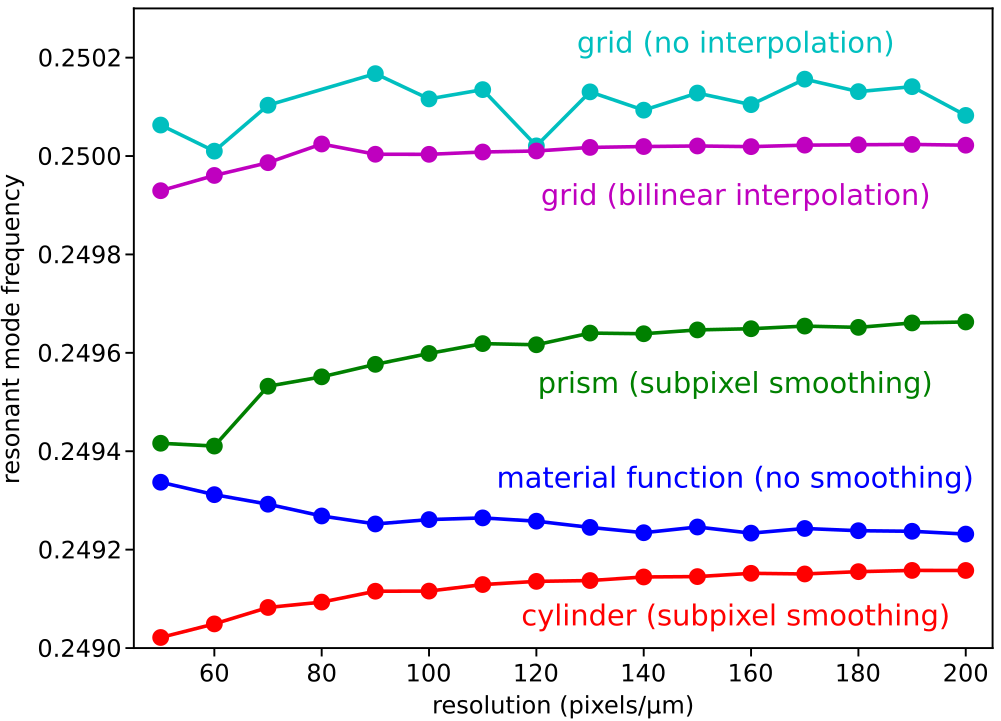
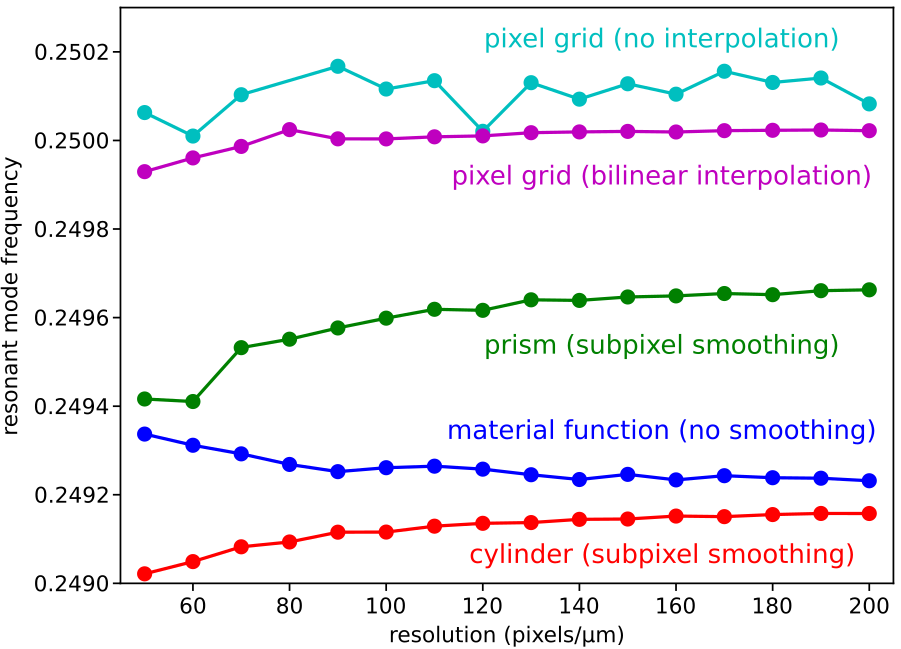
overwrite src frequency with eigenmode frequency

diff --git a/src/mpb.cpp b/src/mpb.cpp
@@ -696,7 +696,7 @@ void fields::add_eigenmode_source(component c0, const src_time &src, direction d
   global_eigenmode_data->amp_func = A ? A : default_amp_func;
 
   src_time *src_mpb = src.clone();
-  if (!match_frequency) src_mpb->set_frequency(frequency);
+  if (!match_frequency) src_mpb->set_frequency(global_eigenmode_data->frequency);
 
   /*--------------------------------------------------------------*/
   // step 2: add sources whose radiated field reproduces the      */

diff --git a/doc/docs/Subpixel_Smoothing.md b/doc/docs/Subpixel_Smoothing.md
@@ -133,24 +133,24 @@ The adaptive numerical integration used for subpixel smoothing of material funct
 What Happens When Subpixel Smoothing is Disabled?
 -------------------------------------------------
 
-When subpixel smoothing is disabled by either (1) setting `eps_averaging=False` in the [`Simulation`](Python_User_Interface.md#the-simulation-class) constructor or (2) using a [material_function](Subpixel_Smoothing.md#enabling-averaging-for-material-function) (as is typical in the [adjoint solver](Python_Tutorials/AdjointSolver.md)), each electric field component ($E_x$, $E_y$, $E_z$) in a given voxel is individually assigned a scalar permittivity (for isotropic materials) based on whatever the value of the permittivity is at that position in the [Yee grid](Yee_Lattice.md). This results in [staircasing artifacts](Subpixel_Smoothing.md) due to the discontinuous material interfaces as well as the staggered nature of the Yee grid points. Any change in the resolution which shifts the location of the Yee grid points relative to the material interfaces will result in unpredictable changes to any computed quantities. The coordinates the Yee grid points can be obtained using a [field function](Field_Functions.md#coordinates-of-the-yee-grid) which can be useful for debugging.
+When subpixel smoothing is disabled by either (1) setting `eps_averaging=False` in the [`Simulation`](Python_User_Interface.md#the-simulation-class) constructor or (2) using a [material function](Subpixel_Smoothing.md#enabling-averaging-for-material-function) (as is typical in the [adjoint solver](Python_Tutorials/AdjointSolver.md)), each electric field component ($E_x$, $E_y$, $E_z$) in a given voxel is individually assigned a scalar permittivity (for isotropic materials) based on whatever the value of the permittivity is at that position in the [Yee grid](Yee_Lattice.md). This results in [staircasing artifacts](Subpixel_Smoothing.md) due to the discontinuous material interfaces as well as the staggered nature of the Yee grid points. Any change in the resolution which shifts the location of the Yee grid points relative to the material interfaces will result in unpredictable changes to any computed quantities. The coordinates the Yee grid points can be obtained using a [field function](Field_Functions.md#coordinates-of-the-yee-grid) which can be useful for debugging.
 
 Subpixel Smoothing vs. Bilinear Interpolation
 ---------------------------------------------
 
 In certain cases, using subpixel smoothing may be impractical given the poor runtime performance of the adaptive numerical integration method as discussed previously. A partial workaround, to ensure that Meep responds continuously to changes in the simulation parameters (even if absolute accuracy is not improved) is to *interpolate* any discontinuous structure onto the Yee grid. Otherwise, tiny changes in Meep's [Yee grid](Yee_Lattice.md) due to e.g. small changes in the resolution could cause discontinuous jumps in ε.
 
-As a demonstration of this effect, consider a ring resonator (same structure as [above](#continuously-varying-shapes-and-results)) in which the ring geometry can be represented using five different methods:
+As a demonstration of this effect, consider a ring resonator (inner radius: 2 μm, width: 1 μm; same structure as [above](#continuously-varying-shapes-and-results)) in which the ring geometry can be represented using five different methods:
 
-1. Two overlapping [`Cylinder`](Python_User_Interface.md#cylinder) objects (subpixel smoothing).
-2. Two overlapping [`Prism`](Python_User_Interface.md#prism) objects (subpixel smoothing). Could also be imported as a [GDSII file](Python_User_Interface.md#gdsii-support).
+1. two overlapping [`Cylinder`](Python_User_Interface.md#cylinder) objects (subpixel smoothing).
+2. two overlapping [`Prism`](Python_User_Interface.md#prism) objects (subpixel smoothing). Could also be imported as a [GDSII file](Python_User_Interface.md#gdsii-support).
 3. [material function](Python_User_Interface.md#material-function) (no smoothing).
-4. Grid via [`epsilon_input_file`](Python_User_Interface.md#the-simulation-class) (no smoothing; bilinear interpolation onto Yee grid).
-5. Grid via `epsilon_input_file` (no smoothing; no interpolation).
+4. pixel grid via [`epsilon_input_file`](Python_User_Interface.md#the-simulation-class) (no smoothing; bilinear interpolation onto Yee grid).
+5. pixel grid via `epsilon_input_file` (no smoothing; no interpolation).
 
 Of these five methods, (3) and (5) produce discontinuous structures.
 
-The grid imported from `epsilon_input_file` via an HDF5 file in (4) and (5) is generated by the function `output_epsilon` when using the material function from (3) at a resolution of 80.
+The pixel grid imported from the HDF5 `epsilon_input_file` in (4) and (5) is generated by the function `output_epsilon` when using the material function from (3) at a resolution of 80.
 
 The prism ring geometry in (2) is generated using:
 
@@ -172,10 +172,10 @@ The following convergence plot shows the frequency for the resonant mode with $H
 ![](images/ring_freq_vs_resolution.png)
 </center>
 
-There are three important items to note. (1) The grid and prism representations are each converging to a different frequency than the material function and cylinder. This is because in the limit of infinite resolution, they are *different* structures than the cylinders. (2) The material function is the same structure as the cylinder with no smoothing. In the limit of infinite resolution, the material function and cylinder converge to the same frequency. The only difference is the *rate* of convergence: the cylinder is second order (due to subpixel smoothing) whereas the material function is first order. See the convergence plot in the third figure from the top. (3) The non-interpolated grid shows irregular convergence compared with the interpolated grid. This is expected because the non-interpolated grid is discontinuous but the interpolated grid is not. Also, because these are different structures the two grids converge to different frequencies. To see this trend clearly requires reducing the "jumpiness" of the non-interpolated grid: the Meep resolution needs to be increased beyond 200 which is already ~3X the grid resolution.
+There are three important items to note. (1) The pixel grid and prism representations are each converging to a different frequency than the material function and cylinder. This is because in the limit of infinite resolution, they are *different* structures than the cylinders. (2) The material function is the same structure as the cylinder with no smoothing. In the limit of infinite resolution, the material function and cylinder converge to the same frequency. The only difference is the *rate* of convergence: the cylinder is second order (due to subpixel smoothing) whereas the material function is first order. See the convergence plot above (third figure from the top). (3) The non-interpolated pixel grid shows irregular convergence compared with the interpolated grid. This is expected because the non-interpolated grid is discontinuous but the interpolated grid is not. Also, because these are different structures the two pixel grids converge to different frequencies. To see this trend clearly requires reducing the "jumpiness" of the non-interpolated grid: the Meep resolution needs to be increased beyond 200 which is already ~3X the grid resolution.
 
-Since the interpolated grid has already been smoothed to a *continuous* $\varepsilon(x,y)$ function, subpixel smoothing (which is not supported for `epsilon_input_file`) is not really necessary once the Yee grid resolution exceeds the input image resolution. This can be seen in the above plot: for Meep Yee grid resolutions of 80 (equal to the grid resolution of the HDF5 file) and above, the changes in the results are much smaller than those at lower resolutions. Also, higher-order interpolation schemes are not necessary because the Yee discretization is already essentially equivalent to linear interpolation.
+Since the interpolated pixel grid has already been smoothed to a continuous $\varepsilon(x,y)$ function, subpixel smoothing (which is not supported for `epsilon_input_file`) is not really necessary once the Yee grid resolution exceeds the input image resolution. This can be seen in the above plot: for Meep Yee grid resolutions of 80 (equal to the pixel grid resolution of the HDF5 file) and above, the changes in the results are much smaller than those at lower resolutions. Also, higher-order interpolation schemes are not necessary because the Yee discretization is already essentially equivalent to linear interpolation.
 
-As a practical matter, increasing the Meep resolution beyond the resolution of a non-interpolated grid is not physically meaningful because this is trying to resolve the individual pixels of an imported image. In the case of a grid imported via `epsilon_input_file`, this is not an issue because the bilinear interpolation is performed automatically by default. However, no built-in interpolation is provided for a material function; it must be provided by the user (i.e., convolving the discontinuous material function with a smoothing kernel).    As a corollary, when designing structures using a pixel grid (as in the [adjoint solver](Python_Tutorials/AdjointSolver.md)), the pixel density of the degrees of freedom should typically be at least as big as the Meep resolution if not greater.
+As a practical matter, increasing the Meep resolution beyond the resolution of a non-interpolated pixel grid is not physically meaningful because this is trying to resolve the individual pixels of an imported image. In the case of a pixel grid imported via `epsilon_input_file`, this is not an issue because the bilinear interpolation is performed automatically by default. However, no built-in interpolation is provided for a material function; it must be provided by the user (i.e., convolving the discontinuous material function with a smoothing kernel).    As a corollary, when designing structures using a pixel grid (as in the [adjoint solver](Python_Tutorials/AdjointSolver.md)), the pixel density of the degrees of freedom should typically be at least as big as the Meep resolution if not greater.
 
 In general, by making a discontinuous structure continuous, via subpixel smoothing or some other form of interpolation, the convergence becomes more regular (the results change more continuously to changes in resolution or other parameters), although it does not necessarily become more accurate compared to the desired infinite-resolution structure unless the full anisotropic smoothing is performed.   If the initial structure is already continuous, no additional preprocessing is necessary. 

diff --git a/doc/docs/Python_User_Interface.md b/doc/docs/Python_User_Interface.md
@@ -813,7 +813,7 @@ The index *n* (1,2,3,...) of the desired band ω<sub>*n*</sub>(**k**) to compute
 
 **`direction` [`mp.X`, `mp.Y`, or `mp.Z;` default `mp.AUTOMATIC`], `eig_match_freq` [`boolean;` default `True`], `eig_kpoint` [`Vector3`]**
 —
-By default (if `eig_match_freq` is `True`), Meep tries to find a mode with the same frequency ω<sub>*n*</sub>(**k**) as the `src` property (above), by scanning **k** vectors in the given `direction` using MPB's `find_k` functionality. Alternatively, if `eig_kpoint` is supplied, it is used as an initial guess for **k**. By default, `direction` is the direction normal to the source region, assuming `size` is $d$–1 dimensional in a $d$-dimensional simulation (e.g. a plane in 3d). If `direction` is set to `mp.NO_DIRECTION`, then `eig_kpoint` is not only the initial guess and the search direction of the **k** vectors, but is also taken to be the direction of the waveguide, allowing you to [launch modes in oblique ridge waveguides](Python_Tutorials/Eigenmode_Source.md#index-guided-modes-in-a-ridge-waveguide) (not perpendicular to the source plane).  If `eig_match_freq` is `False`, then the specific **k** vector of the desired mode is specified with  `eig_kpoint` (in Meep units of 2π/(unit length)). By default, the **k** components in the plane of the source region are zero.  However, if the source region spans the *entire* cell in some directions, and the cell has Bloch-periodic boundary conditions via the `k_point` parameter, then the mode's **k** components in those directions will match `k_point` so that the mode satisfies the Meep boundary conditions, regardless of `eig_kpoint`. Note that once **k** is either found by MPB, or specified by `eig_kpoint`, the field profile used to create the current sources corresponds to the [Bloch mode](https://en.wikipedia.org/wiki/Bloch_wave), $\mathbf{u}_{n,\mathbf{k}}(\mathbf{r})$, multiplied by the appropriate exponential factor, $e^{i \mathbf{k} \cdot \mathbf{r}}$.
+By default (if `eig_match_freq` is `True`), Meep tries to find a mode with the same frequency ω<sub>*n*</sub>(**k**) as the `src` property (above), by scanning **k** vectors in the given `direction` using MPB's `find_k` functionality. Alternatively, if `eig_kpoint` is supplied, it is used as an initial guess for **k**. By default, `direction` is the direction normal to the source region, assuming `size` is $d$–1 dimensional in a $d$-dimensional simulation (e.g. a plane in 3d). If `direction` is set to `mp.NO_DIRECTION`, then `eig_kpoint` is not only the initial guess and the search direction of the **k** vectors, but is also taken to be the direction of the waveguide, allowing you to [launch modes in oblique ridge waveguides](Python_Tutorials/Eigenmode_Source.md#oblique-waveguides) (not perpendicular to the source plane).  If `eig_match_freq` is `False`, then the **k** vector of the desired mode is specified with  `eig_kpoint` (in Meep units of 2π/(unit length)). Also, the eigenmode frequency computed by MPB overwrites the `frequency` parameter of the `src` property for a `GaussianSource` and `ContinuousSource` but not `CustomSource` (the `width` or any other parameter of `src` is unchanged). By default, the **k** components in the plane of the source region are zero.  However, if the source region spans the *entire* cell in some directions, and the cell has Bloch-periodic boundary conditions via the `k_point` parameter, then the mode's **k** components in those directions will match `k_point` so that the mode satisfies the Meep boundary conditions, regardless of `eig_kpoint`. Note that once **k** is either found by MPB, or specified by `eig_kpoint`, the field profile used to create the current sources corresponds to the [Bloch mode](https://en.wikipedia.org/wiki/Bloch_wave), $\mathbf{u}_{n,\mathbf{k}}(\mathbf{r})$, multiplied by the appropriate exponential factor, $e^{i \mathbf{k} \cdot \mathbf{r}}$.
 
 **`eig_parity` [`mp.NO_PARITY` (default), `mp.EVEN_Z`, `mp.ODD_Z`, `mp.EVEN_Y`, `mp.ODD_Y`]**
 —
@@ -1253,6 +1253,8 @@ The parameters of this routine are the same as that of `get_eigenmode_coefficien
 + `k`: the Bloch wavevector of the mode in `direction`
 + `kdom`: the dominant planewave of mode `band_num`
 + `amplitude(point, component)`: the (complex) value of the given E or H field `component` (`Ex`, `Hy`, etcetera) at a particular `point` (a `Vector3`) in space (interpreted with Bloch-periodic boundary conditions if you give a point outside the original `eig_vol`).
+
+If `match_frequency=False` or `kpoint` is not zero in the given `direction`, the `frequency` input parameter is ignored.
 
 **`get_eigenmode_freqs(flux)`**
 —

diff --git a/doc/docs/Python_Tutorials/Optical_Forces.md b/doc/docs/Python_Tutorials/Optical_Forces.md
@@ -10,7 +10,7 @@ This tutorial demonstrates Meep's ability to compute classical forces via the [M
 
 The gradient force $F$ on each waveguide arising from the evanescent coupling of the two waveguide modes can be computed analytically:
 
-$$F=-\frac{1}{\omega}\frac{d\omega}{ds}\Bigg\vert_\vec{k}U,$$
+$$F=-\frac{1}{\omega}\frac{d\omega}{ds}\Bigg\vert_\vec{k}U$$
 
 where $\omega$ is the mode frequency of the coupled waveguide system, $s$ is the separation distance between the parallel waveguides, $k$ is the conserved wave vector, and $U$ is the total energy of the electromagnetic fields. By convention, negative and positive values correspond to attractive and repulsive forces, respectively. For more details, see [Optics Letters, Vol. 30, pp. 3042-4, 2005](https://www.osapublishing.org/ol/abstract.cfm?uri=ol-30-22-3042). This expression has been shown to be mathematically equivalent to the Maxwell stress tensor in [Optics Express, Vol. 17, pp. 18116-35, 2009](http://www.opticsinfobase.org/oe/abstract.cfm?URI=oe-17-20-18116). We will verify this result in this tutorial. In this particular example, only the fundamental mode with odd mirror-symmetry in $y$ shows the bidirectional force.
 
@@ -20,7 +20,7 @@ The gradient force $F$ can be computed using two different methods: (1) using MP
 
 The simulation script is in [examples/parallel-wvgs-force.py](https://github.com/NanoComp/meep/blob/master/python/examples/parallel-wvgs-force.py). The notebook is [examples/parallel-wvgs-force.ipynb](https://nbviewer.jupyter.org/github/NanoComp/meep/blob/master/python/examples/parallel-wvgs-force.ipynb).
 
-The main component of the Meep script is the function `parallel_waveguide` which computes the force $F$ and transmitted power $P$ given the waveguide separation distance `s` and relative phase of the waveguide modes `xodd=True/False`. The eigenmode frequency $\omega$ is computed first using `get_eigenmode` in order to specify the frequency of the `add_force` and `add_flux` monitors. An [`EigenModeSource`](../Python_User_Interface.md#eigenmodesource) with `eig_match_freq=False` is then used to launch the guided mode. Alternatively, a constant-amplitude point/area source can be used to launch the mode but this is less efficient as demonstrated in [Tutorial/Eigenmode Source/Index-Guided Modes in a Ridge Waveguide](Eigenmode_Source.md#index-guided-modes-in-a-ridge-waveguide). The waveguide has width/height of $a=1$ μm and a fixed propagation wavevector of $\pi/a$.
+The main component of the Meep script is the function `parallel_waveguide` which computes the force $F$ and transmitted power $P$ given the waveguide separation distance `s` and relative phase of the waveguide modes `xodd=True/False`. The eigenmode frequency $\omega$ is computed first using `get_eigenmode` in order to specify the frequency of the `add_force` and `add_flux` monitors. (Note that when `match_frequency=False`, `get_eigenmode` ignores the input `frequency` parameter.) An [`EigenModeSource`](../Python_User_Interface.md#eigenmodesource) with `eig_match_freq=False` is then used to launch the guided mode using a pulse (the `frequency` but not the `fwidth` parameter of `GaussianSource` is ignored). Alternatively, a constant-amplitude point/area source can be used to launch the mode but this is less efficient as demonstrated in [Tutorial/Eigenmode Source/Index-Guided Modes in a Ridge Waveguide](Eigenmode_Source.md#index-guided-modes-in-a-ridge-waveguide). The waveguide has width/height of $a=1$ μm and a fixed propagation wavevector of $\pi/a$.
 
 ```py
 import meep as mp
@@ -128,7 +128,7 @@ plt.legend(loc='upper right')
 plt.show()
 ```
 
-The following figure shows the $E_y$ mode profile at a waveguide separation distance of 0.1 μm. This figure was generated using the [`plot2D`](../Python_User_Interface.md#data-visualization) routine and shows the source/flux region (red hatches), force monitors (blue lines), and PMLs (green hatches) surrounding the cell. From the force spectra shown above, at this separation distance the anti-symmetric mode is repulsive whereas the symmetric mode is attractive.
+The following figure shows the $E_y$ mode profiles at a waveguide separation distance of 0.1 μm. This figure was generated using the [`plot2D`](../Python_User_Interface.md#data-visualization) routine and shows the source and flux monitor (red hatches), force monitors (blue lines), and PMLs (green hatches) surrounding the cell. From the force spectra shown above, at this separation distance the anti-symmetric mode is repulsive whereas the symmetric mode is attractive.
 
 <center>
 ![](../images/parallel_wvgs_s0.1.png)

diff --git a/doc/docs/Scheme_User_Interface.md b/doc/docs/Scheme_User_Interface.md
@@ -665,7 +665,7 @@ The index *n* (1,2,3,...) of the desired band ω<sub>*n*</sub>(**k**) to compute
 
 **`direction` [`X`, `Y`, or `Z;` default `AUTOMATIC`], `eig-match-freq?` [`boolean;` default `true`], `eig-kpoint` [`vector3`]**
 —
-By default (if `eig-match-freq?` is `true`), Meep tries to find a mode with the same frequency ω<sub>*n*</sub>(**k**) as the `src` property (above), by scanning **k** vectors in the given `direction` using MPB's `find-k` functionality. Alternatively, if `eig-kpoint` is supplied, it is used as an initial guess for **k**. By default, `direction` is the direction normal to the source region, assuming `size` is $d$–1 dimensional in a $d$-dimensional simulation (e.g. a plane in 3d). If `direction` is set to `NO-DIRECTION`, then `eig_kpoint` is not only the initial guess and the search direction of the **k** vectors, but is also taken to be the direction of the waveguide, allowing you to [launch modes in oblique ridge waveguides](Scheme_Tutorials/Eigenmode_Source.md#index-guided-modes-in-a-ridge-waveguide) (not perpendicular to the source plane). If `eig-match-freq?` is `false`, then the specific **k** vector of the desired mode is specified with `eig-kpoint` (in Meep units of 2π/(unit length)). By default, the **k** components in the plane of the source region are zero.  However, if the source region spans the *entire* cell in some directions, and the cell has Bloch-periodic boundary conditions via the `k-point` parameter, then the mode's **k** components in those directions will match `k-point` so that the mode satisfies the Meep boundary conditions, regardless of `eig-kpoint`. Note that once **k** is either found by MPB, or specified by `eig-kpoint`, the field profile used to create the current sources corresponds to the [Bloch mode](https://en.wikipedia.org/wiki/Bloch_wave), $\mathbf{u}_{n,\mathbf{k}}(\mathbf{r})$, multiplied by the appropriate exponential factor, $e^{i \mathbf{k} \cdot \mathbf{r}}$.
+By default (if `eig-match-freq?` is `true`), Meep tries to find a mode with the same frequency ω<sub>*n*</sub>(**k**) as the `src` property (above), by scanning **k** vectors in the given `direction` using MPB's `find-k` functionality. Alternatively, if `eig-kpoint` is supplied, it is used as an initial guess for **k**. By default, `direction` is the direction normal to the source region, assuming `size` is $d$–1 dimensional in a $d$-dimensional simulation (e.g. a plane in 3d). If `direction` is set to `NO-DIRECTION`, then `eig-kpoint` is not only the initial guess and the search direction of the **k** vectors, but is also taken to be the direction of the waveguide, allowing you to [launch modes in oblique ridge waveguides](Scheme_Tutorials/Eigenmode_Source.md#oblique-waveguides) (not perpendicular to the source plane). If `eig-match-freq?` is `false`, then the **k** vector of the desired mode is specified with `eig-kpoint` (in Meep units of 2π/(unit length)). Also, the eigenmode frequency computed by MPB overwrites the `frequency` parameter of the `src` property for a `gaussian-src` and `continuous-src` but not `custom-src` (the `width` or any other parameter of `src` is unchanged). By default, the **k** components in the plane of the source region are zero.  However, if the source region spans the *entire* cell in some directions, and the cell has Bloch-periodic boundary conditions via the `k-point` parameter, then the mode's **k** components in those directions will match `k-point` so that the mode satisfies the Meep boundary conditions, regardless of `eig-kpoint`. Note that once **k** is either found by MPB, or specified by `eig-kpoint`, the field profile used to create the current sources corresponds to the [Bloch mode](https://en.wikipedia.org/wiki/Bloch_wave), $\mathbf{u}_{n,\mathbf{k}}(\mathbf{r})$, multiplied by the appropriate exponential factor, $e^{i \mathbf{k} \cdot \mathbf{r}}$.
 
 **`eig-parity` [`NO-PARITY` (default), `EVEN-Z`, `ODD-Z`, `EVEN-Y`, `ODD-Y`]**
 —

diff --git a/doc/docs/Scheme_Tutorials/Optical_Forces.md b/doc/docs/Scheme_Tutorials/Optical_Forces.md
@@ -10,7 +10,7 @@ This tutorial demonstrates Meep's ability to compute classical forces via the [M
 
 The gradient force $F$ on each waveguide arising from the evanescent coupling of the two waveguide modes can be computed analytically:
 
-$$F=-\frac{1}{\omega}\frac{d\omega}{ds}\Bigg\vert_\vec{k}U,$$
+$$F=-\frac{1}{\omega}\frac{d\omega}{ds}\Bigg\vert_\vec{k}U$$
 
 where $\omega$ is the mode frequency of the coupled waveguide system, $s$ is the separation distance between the parallel waveguides, $k$ is the conserved wave vector, and $U$ is the total energy of the electromagnetic fields. By convention, negative and positive values correspond to attractive and repulsive forces, respectively. For more details, see [Optics Letters, Vol. 30, pp. 3042-4, 2005](https://www.osapublishing.org/ol/abstract.cfm?uri=ol-30-22-3042). This expression has been shown to be mathematically equivalent to the Maxwell stress tensor in [Optics Express, Vol. 17, pp. 18116-35, 2009](http://www.opticsinfobase.org/oe/abstract.cfm?URI=oe-17-20-18116). We will verify this result in this tutorial. In this particular example, only the fundamental mode with odd mirror-symmetry in $y$ shows the bidirectional force.
 
@@ -77,7 +77,7 @@ Since we do not know apriori what the mode frequency is for a given waveguide se
 (print "freq:, " s ", " f "\n")
 ```
 
-Once we have determined the mode frequency, we then replace the `source` with [`eigenmode-source`](../Scheme_User_Interface.md#eigenmode-source) to perform the main simulation: compute (1) the force on each waveguide due to the mode coupling and (2) the power in the mode. An `eigenmode-source` with `eig-match-freq?` set to `false` is then used to launch the guided mode. Alternatively, a constant-amplitude point/area source can be used to launch the mode but this is less efficient as demonstrated in [Tutorial/Eigenmode Source/Index-Guided Modes in a Ridge Waveguide](Eigenmode_Source.md#index-guided-modes-in-a-ridge-waveguide).
+Once we have determined the mode frequency, we then replace the `source` with [`eigenmode-source`](../Scheme_User_Interface.md#eigenmode-source) to perform the main simulation: compute (1) the force on each waveguide due to the mode coupling and (2) the power in the mode. An `eigenmode-source` with `eig-match-freq?` set to `false` is then used to launch the guided mode using a pulse (the `frequency` but not the `fwidth` parameter of `gaussian-src` is ignored). Alternatively, a constant-amplitude point/area source can be used to launch the mode but this is less efficient as demonstrated in [Tutorial/Eigenmode Source/Index-Guided Modes in a Ridge Waveguide](Eigenmode_Source.md#index-guided-modes-in-a-ridge-waveguide).
 
 ```scm
 (reset-meep)
@@ -113,7 +113,7 @@ In this example, the fields of the guided mode never decay away to zero. [Choosi
 
 The simulation is run over the range of separation distances $s$ from 0.05 to 1.00 μm in increments of 0.05 μm. The results are compared with those from MPB. This is shown in the top figure. The two methods show good agreement.
 
-The following figure shows the $E_y$ mode profile at a waveguide separation distance of 0.1 μm. This figure shows the source/flux region (red hatches), force monitors (blue lines), and PMLs (green hatches) surrounding the cell. From the force spectra shown above, at this separation distance the anti-symmetric mode is repulsive whereas the symmetric mode is attractive.
+The following figure shows the $E_y$ mode profiles at a waveguide separation distance of 0.1 μm. This figure shows the source and flux monitor (red hatches), force monitors (blue lines), and PMLs (green hatches) surrounding the cell. From the force spectra shown above, at this separation distance the anti-symmetric mode is repulsive whereas the symmetric mode is attractive.
 
 <center>
 ![](../images/parallel_wvgs_s0.1.png)

diff --git a/doc/docs/Scheme_Tutorials/Eigenmode_Source.md b/doc/docs/Scheme_Tutorials/Eigenmode_Source.md
@@ -89,7 +89,9 @@ For the multi-mode case, a constant-amplitude current source excites a superposi
 
 Note that in `eigenmode-source`, the `direction` property must be set to `NO-DIRECTION` for a non-zero `eig-kpoint` which specifies the waveguide axis.
 
-Additionally, we can demonstrate the eigenmode source for a rotated waveguide. The results are shown in the two figures below for the single- and multi-mode case. There is one subtlety: for mode **A** in the multi-mode case, the `bnum` parameter is set to 3 rather than 2. This is because a non-zero rotation angle breaks the symmetry in the $y$-direction which therefore precludes the use of `EVEN-Y` in `eig-parity`. Without any parity specified for the $y$-direction, the second band corresponds to *odd* modes. This is why we must select the third band which contains even modes.
+### Oblique Waveguides
+
+The eigenmode source can also be used to launch modes in an oblique/rotated waveguide. The results are shown in the two figures below for the single- and multi-mode case. There is one subtlety: for mode **A** in the multi-mode case, the `bnum` parameter is set to 3 rather than 2. This is because a non-zero rotation angle breaks the symmetry in the $y$-direction which therefore precludes the use of `EVEN-Y` in `eig-parity`. Without any parity specified for the $y$-direction, the second band corresponds to *odd* modes. This is why we must select the third band which contains even modes.
 
 Note that an oblique waveguide leads to a breakdown in the [PML](../Perfectly_Matched_Layer.md#breakdown-of-pml-in-inhomogeneous-media). A simple workaround for mitigating the PML reflection artifacts in this case is to double the `thickness` from 1 to 2.
 

diff --git a/doc/docs/Python_Tutorials/Eigenmode_Source.md b/doc/docs/Python_Tutorials/Eigenmode_Source.md
@@ -94,7 +94,9 @@ else:
 
 Note that in `EigenModeSource` as well as `get_eigenmode_coefficients`, the `direction` property must be set to `NO_DIRECTION` for a non-zero `eig_kpoint` which specifies the waveguide axis.
 
-Additionally, we can demonstrate the eigenmode source for a rotated waveguide. The results are shown in the two figures below for the single- and multi-mode case. There is one subtlety: for mode **A** in the multi-mode case, the `bnum` parameter is set to 3 rather than 2. This is because a non-zero rotation angle breaks the symmetry in the $y$-direction which therefore precludes the use of `EVEN_Y` in `eig_parity`. Without any parity specified for the $y$-direction, the second band corresponds to *odd* modes. This is why we must select the third band which contains even modes.
+### Oblique Waveguides
+
+The eigenmode source can also be used to launch modes in an oblique/rotated waveguide. The results are shown in the two figures below for the single- and multi-mode case. There is one subtlety: for mode **A** in the multi-mode case, the `bnum` parameter is set to 3 rather than 2. This is because a non-zero rotation angle breaks the symmetry in the $y$-direction which therefore precludes the use of `EVEN_Y` in `eig_parity`. Without any parity specified for the $y$-direction, the second band corresponds to *odd* modes. This is why we must select the third band which contains even modes.
 
 Note that an oblique waveguide leads to a breakdown in the [PML](../Perfectly_Matched_Layer.md#breakdown-of-pml-in-inhomogeneous-media). A simple workaround for mitigating the PML reflection artifacts in this case is to double the `thickness` from 1 to 2.
 
